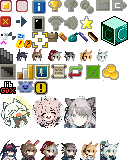
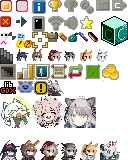
대충 작업한거

Changed region(s): [[0.7812, 0.875, 0.9375, 1.0], [0.375, 0.5, 0.5, 0.625], [0.0, 0.2188, 0.0625, 0.25]]

diff --git a/Arrrknights/core/src/main/java/com/shatteredpixel/shatteredpixeldungeon/ui/Icons.java b/Arrrknights/core/src/main/java/com/shatteredpixel/shatteredpixeldungeon/ui/Icons.java
@@ -62,7 +62,7 @@ public enum Icons {
 	DEPTH,
 	WARRIOR,
 	MAGE,
-	ROGUE,
+	RED,
 	HUNTRESS,
 	
 	//main menu icons
@@ -78,6 +78,7 @@ public enum Icons {
 	LIBGDX,
 	WATA,
 	WARNING,
+	PATRIOT,
 
 	//32x32 icons for credits
 	ALEKS,
@@ -88,8 +89,10 @@ public enum Icons {
 
 	BLAZE,
 	AMIYA,
-	RED,
-	GREY;
+	P_RED,
+	GREY,
+	NEARL,
+	ROSEMARI;
 
 	public Image get() {
 		return get( this );
@@ -186,7 +189,7 @@ public enum Icons {
 		case MAGE:
 			icon.frame( icon.texture.uvRect( 32, 48, 48, 61 ) );
 			break;
-		case ROGUE:
+		case RED:
 			icon.frame( icon.texture.uvRect( 48, 48, 64, 61 ) );
 			break;
 		case HUNTRESS:
@@ -198,13 +201,19 @@ public enum Icons {
 			case AMIYA:
 				icon.frame(icon.texture.uvRect(20, 140, 40, 160));
 				break;
-			case RED:
+			case P_RED:
 				icon.frame(icon.texture.uvRect(40, 140, 60, 160));
 				break;
 			case GREY:
 				icon.frame(icon.texture.uvRect(60, 140, 80, 160));
 				break;
-		
+			case NEARL:
+				icon.frame(icon.texture.uvRect(80, 140, 100, 160));
+				break;
+			case ROSEMARI:
+				icon.frame(icon.texture.uvRect(100, 140, 120, 160));
+				break;
+
 		case ENTER:
 			icon.frame( icon.texture.uvRect( 0, 64, 16, 80 ) );
 			break;
@@ -235,8 +244,13 @@ public enum Icons {
 			icon.frame( icon.texture.uvRect( 17, 81, 34, 93 ) );
 			break;
 		case WARNING:
-			icon.frame( icon.texture.uvRect( 34, 81, 48, 95 ) );
+			icon.frame(icon.texture.uvRect(34, 81, 48, 95));
 			break;
+
+			case PATRIOT:
+				icon.frame(icon.texture.uvRect(48, 80, 64, 96));
+				break;
+
 
 		case ALEKS:
 			icon.frame( icon.texture.uvRect( 32, 96, 64, 128 ) );
@@ -271,7 +285,7 @@ public enum Icons {
 		case MAGE:
 			return get( MAGE );
 		case ROGUE:
-			return get( ROGUE );
+			return get( RED );
 		case HUNTRESS:
 			return get( HUNTRESS );
 		default:

diff --git a/Arrrknights/core/src/main/java/com/shatteredpixel/shatteredpixeldungeon/sprites/ItemSpriteSheet.java b/Arrrknights/core/src/main/java/com/shatteredpixel/shatteredpixeldungeon/sprites/ItemSpriteSheet.java
@@ -94,7 +94,7 @@ public class ItemSpriteSheet {
 	static{
 		assignItemRect(GOLD,        16, 16);
 		assignItemRect(DEWDROP,     10, 10);
-		assignItemRect(PETAL,       8,  8);
+		assignItemRect(PETAL,       16,  16);
 		assignItemRect(SANDBAG,     10, 10);
 		assignItemRect(SPIRIT_ARROW,11, 11);
 		
@@ -166,7 +166,7 @@ public class ItemSpriteSheet {
 		assignItemRect(GOLDEN_KEY,      8,  14);
 		assignItemRect(CRYSTAL_KEY,     8,  14);
 		assignItemRect(SKELETON_KEY,    8,  14);
-		assignItemRect(MASTERY,         13, 16);
+		assignItemRect(MASTERY,         16, 16);
 		assignItemRect(KIT,             16, 15);
 		assignItemRect(AMULET,          16, 16);
 	}

diff --git a/Arrrknights/core/src/main/java/com/shatteredpixel/shatteredpixeldungeon/scenes/StartScene.java b/Arrrknights/core/src/main/java/com/shatteredpixel/shatteredpixeldungeon/scenes/StartScene.java
@@ -178,7 +178,7 @@ public class StartScene extends PixelScene {
 							hero = new Image(Icons.AMIYA.get());
 							break;
 						case ROGUE:
-							hero = new Image(Icons.RED.get());
+							hero = new Image(Icons.P_RED.get());
 							break;
 						case HUNTRESS:
 							hero = new Image(Icons.GREY.get());
@@ -204,7 +204,7 @@ public class StartScene extends PixelScene {
 							hero = new Image(Icons.AMIYA.get());
 							break;
 						case ROGUE:
-							hero = new Image(Icons.RED.get());
+							hero = new Image(Icons.P_RED.get());
 							break;
 						case HUNTRESS:
 							hero = new Image(Icons.GREY.get());

diff --git a/Arrrknights/core/src/main/java/com/shatteredpixel/shatteredpixeldungeon/scenes/SupporterScene.java b/Arrrknights/core/src/main/java/com/shatteredpixel/shatteredpixeldungeon/scenes/SupporterScene.java
@@ -86,7 +86,7 @@ public class SupporterScene extends PixelScene {
 				DeviceCompat.openURI(link);
 			}
 		};
-		link.icon(Icons.get(Icons.GOLD));
+		link.icon(Icons.get(Icons.ROSEMARI));
 		link.textColor(Window.TITLE_COLOR);
 		link.setSize(elementWidth, BTN_HEIGHT);
 		add(link);
@@ -125,7 +125,7 @@ public class SupporterScene extends PixelScene {
 			if (Messages.lang() != Languages.ENGLISH) {
 				message += "\n" + Messages.get(SupporterScene.class, "patreon_english");
 			}
-			message += "\n\n- NAMSEK";
+			message += "\n\n- NAM";
 
 			text = PixelScene.renderTextBlock(message, 6);
 			add(text);

diff --git a/Arrrknights/core/src/main/java/com/shatteredpixel/shatteredpixeldungeon/actors/hero/HeroClass.java b/Arrrknights/core/src/main/java/com/shatteredpixel/shatteredpixeldungeon/actors/hero/HeroClass.java
@@ -151,13 +151,13 @@ public enum HeroClass {
 		skillB.quantity(1).collect();
 		Dungeon.quickslot.setSlot(1,skillB);
 
-		ScrollOfUpgrade UPg;
-		UPg = new ScrollOfUpgrade();
-		UPg.quantity(99).collect();
+		//ScrollOfUpgrade UPg;
+		//UPg = new ScrollOfUpgrade();
+		//UPg.quantity(99).collect();
 
-		WandOfWarding WW;
-		WW = new WandOfWarding();
-		WW.quantity(1).collect();
+		//WandOfWarding WW;
+		//WW = new WandOfWarding();
+		//WW.quantity(1).collect();
 		
 		new PotionBandolier().collect();
 		Dungeon.LimitedDrops.POTION_BANDOLIER.drop();

diff --git a/Arrrknights/core/src/main/java/com/shatteredpixel/shatteredpixeldungeon/scenes/HeroSelectScene.java b/Arrrknights/core/src/main/java/com/shatteredpixel/shatteredpixeldungeon/scenes/HeroSelectScene.java
@@ -303,7 +303,7 @@ public class HeroSelectScene extends PixelScene {
 					icon(new Image(Icons.AMIYA.get()));
 					break;
 				case ROGUE:
-					icon(new Image(Icons.ROGUE.get()));
+					icon(new Image(Icons.P_RED.get()));
 					break;
 				case HUNTRESS:
 					icon(new Image(Icons.GREY.get()));

diff --git a/Arrrknights/core/src/main/java/com/shatteredpixel/shatteredpixeldungeon/scenes/TitleScene.java b/Arrrknights/core/src/main/java/com/shatteredpixel/shatteredpixeldungeon/scenes/TitleScene.java
@@ -345,7 +345,7 @@ public class TitleScene extends PixelScene {
 
 		public SupportButton( Chrome.Type type, String label ){
 			super(type, label);
-			icon(Icons.get(Icons.GOLD));
+			icon(Icons.get(Icons.PATRIOT));
 			textColor(Window.TITLE_COLOR);
 		}
 
